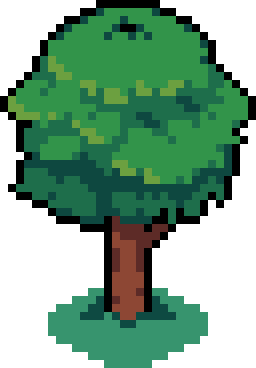
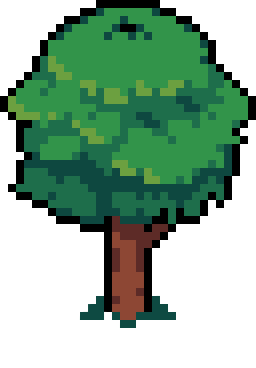
More obstacles and bakery object

Changed region(s): [[0.1875, 0.7772, 0.8125, 1.0]]

diff --git a/src/states/OverworldState.cpp b/src/states/OverworldState.cpp
@@ -4,6 +4,8 @@
 #include "enemies/enemies.h"
 
 #include "Tree.h"
+#include "House.h"
+#include "Bush.h"
 
 #include "states/ResumeState.h"
 #include "states/InventoryState.h"
@@ -19,13 +21,17 @@ OverworldState::OverworldState(): State(){
     GameObject* map = new GameObject();
     map->AddComponent(new Sprite(*map, "resources/img/mapa_1_4x.jpg"));
     AddObject(map);
+
+    GameObject* house = new GameObject();
+    house->AddComponent(new House(*house,"resources/img/overworld/confeitaria.png"));
+    house->box.SetCenter(Vec2(688, 2062));
+    AddObject(house);
     
     GameObject* tuki = new GameObject();
     TukiOW* tukiC = new TukiOW(*tuki);
     tuki->AddComponent(tukiC);
     AddObject(tuki);
     tuki->box.SetCenter(Vec2(817,2316));
-
 
     Player::player = tukiC;
     Camera::Follow(tuki);
@@ -58,10 +64,7 @@ OverworldState::OverworldState(): State(){
     Camera::Follow(tuki);
     GameData::playerAlive = true;
 
-    GameObject* tree = new GameObject();
-    tree->AddComponent(new Tree(*tree));
-    tree->box.SetCenter(Vec2(747, 2180));
-    AddObject(tree);
+
 
     //GameData::backGroundMusic = std::make_unique<Music>("resources/music/OWGame.flac");
 }

diff --git a/src/Tree.cpp b/src/Tree.cpp
@@ -2,8 +2,8 @@
 #include "defines/DefineColor.h"
 
 Tree::Tree(GameObject& associated): Obstacle(associated) {
+    associated.AddComponent(new Sprite(associated, "resources/img/overworld/arvore.png"));
     SetCollider();
-    associated.AddComponent(new Sprite(associated, "resources/img/overworld/arbusto.png"));
 }
 
 Tree::~Tree() {
@@ -15,6 +15,6 @@ bool Tree::Is(std::string type) {
 }
 
 void Tree::SetCollider() {
-    Collider* collider = new Collider(associated,{1,1},{0,0}, COLOR_WHITE);
+    Collider* collider = new Collider(associated,{.3,.2},{0,90}, COLOR_WHITE);
     associated.AddComponent(collider); 
 }

diff --git a/src/Bush.cpp b/src/Bush.cpp
@@ -1,0 +1,21 @@
+#include "Bush.h"
+
+#include "defines/DefineColor.h"
+
+Bush::Bush(GameObject& associated): Obstacle(associated) {
+    associated.AddComponent(new Sprite(associated, "resources/img/overworld/arbusto.png"));
+    SetCollider();
+}
+
+Bush::~Bush() {
+
+}
+
+bool Bush::Is(std::string type) {
+    return type == "Bush" || Obstacle::Is(type);
+}
+
+void Bush::SetCollider() {
+    Collider* collider = new Collider(associated,{1,1},{0,0}, COLOR_WHITE);
+    associated.AddComponent(collider); 
+}

diff --git a/src/House.cpp b/src/House.cpp
@@ -1,0 +1,20 @@
+#include "House.h"
+#include "defines/DefineColor.h"
+
+House::House(GameObject& associated, std::string file): Obstacle(associated) {
+    associated.AddComponent(new Sprite(associated, file));
+    SetCollider();
+}
+
+House::~House() {
+
+}
+
+bool House::Is(std::string type) {
+    return type == "House" || Obstacle::Is(type);
+}
+
+void House::SetCollider() {
+    Collider* collider = new Collider(associated,{1,.8},{0,-48.8}, COLOR_WHITE);
+    associated.AddComponent(collider); 
+}

diff --git a/include/House.h b/include/House.h
@@ -1,0 +1,18 @@
+#ifndef House_h_
+#define House_h_
+
+#include "Obstacle.h"
+#include "Sprite.h"
+
+class House: public Obstacle {
+    public: 
+        House(GameObject& associated, std::string file);
+        ~House();
+
+        bool Is(std::string type);
+
+    private:
+        void SetCollider();
+};
+
+#endif

diff --git a/include/Bush.h b/include/Bush.h
@@ -1,0 +1,18 @@
+#ifndef Bush_h_
+#define Bush_h_
+
+#include "Obstacle.h"
+#include "Sprite.h"
+
+class Bush: public Obstacle {
+    public: 
+        Bush(GameObject& associated);
+        ~Bush();
+
+        bool Is(std::string type);
+
+    private:
+        void SetCollider();
+};
+
+#endif
